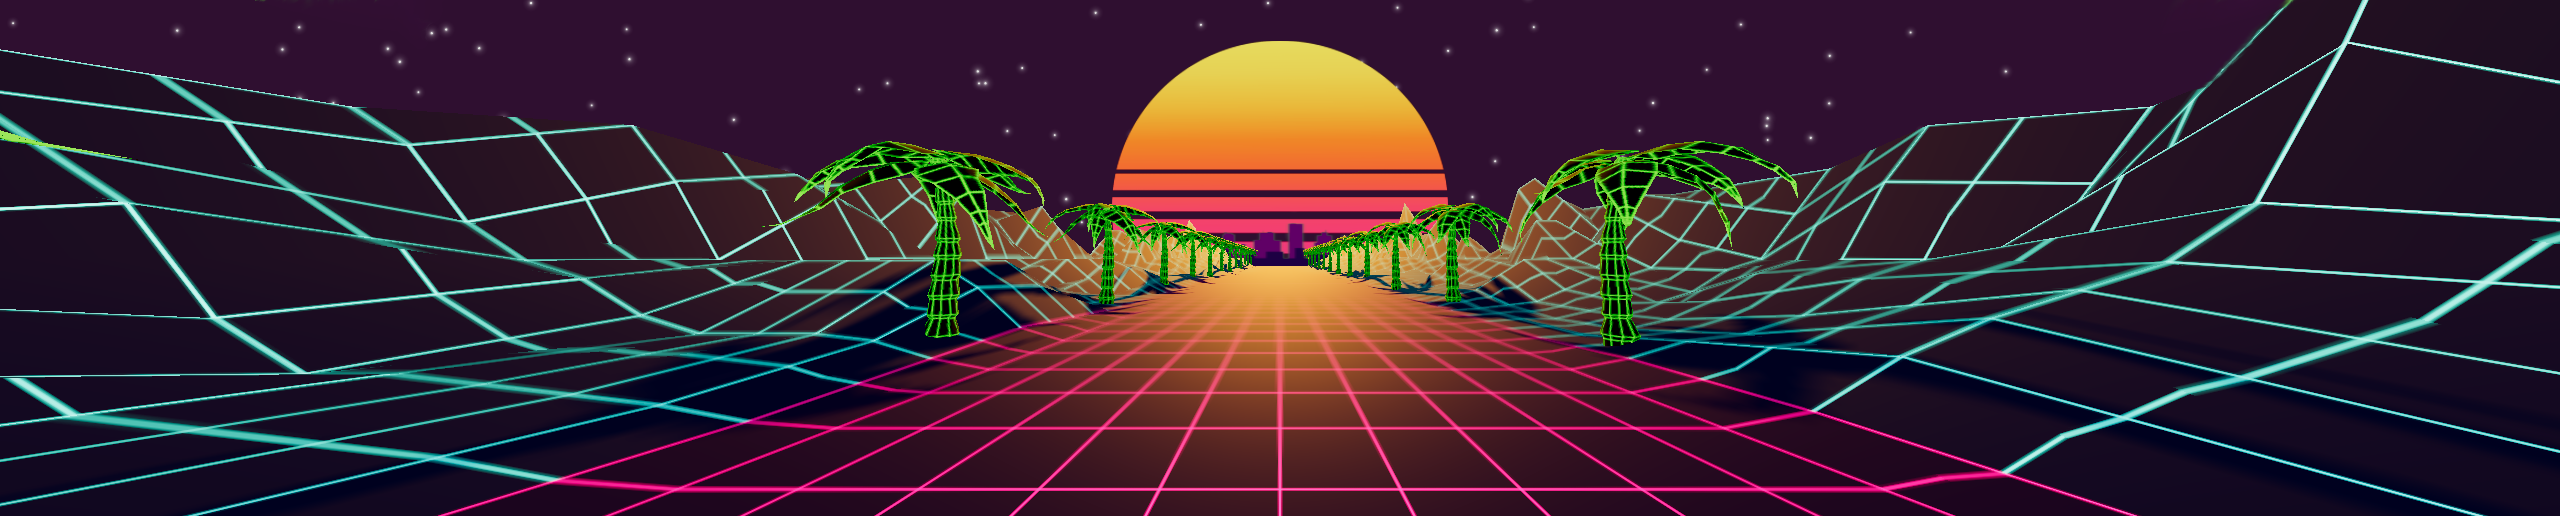
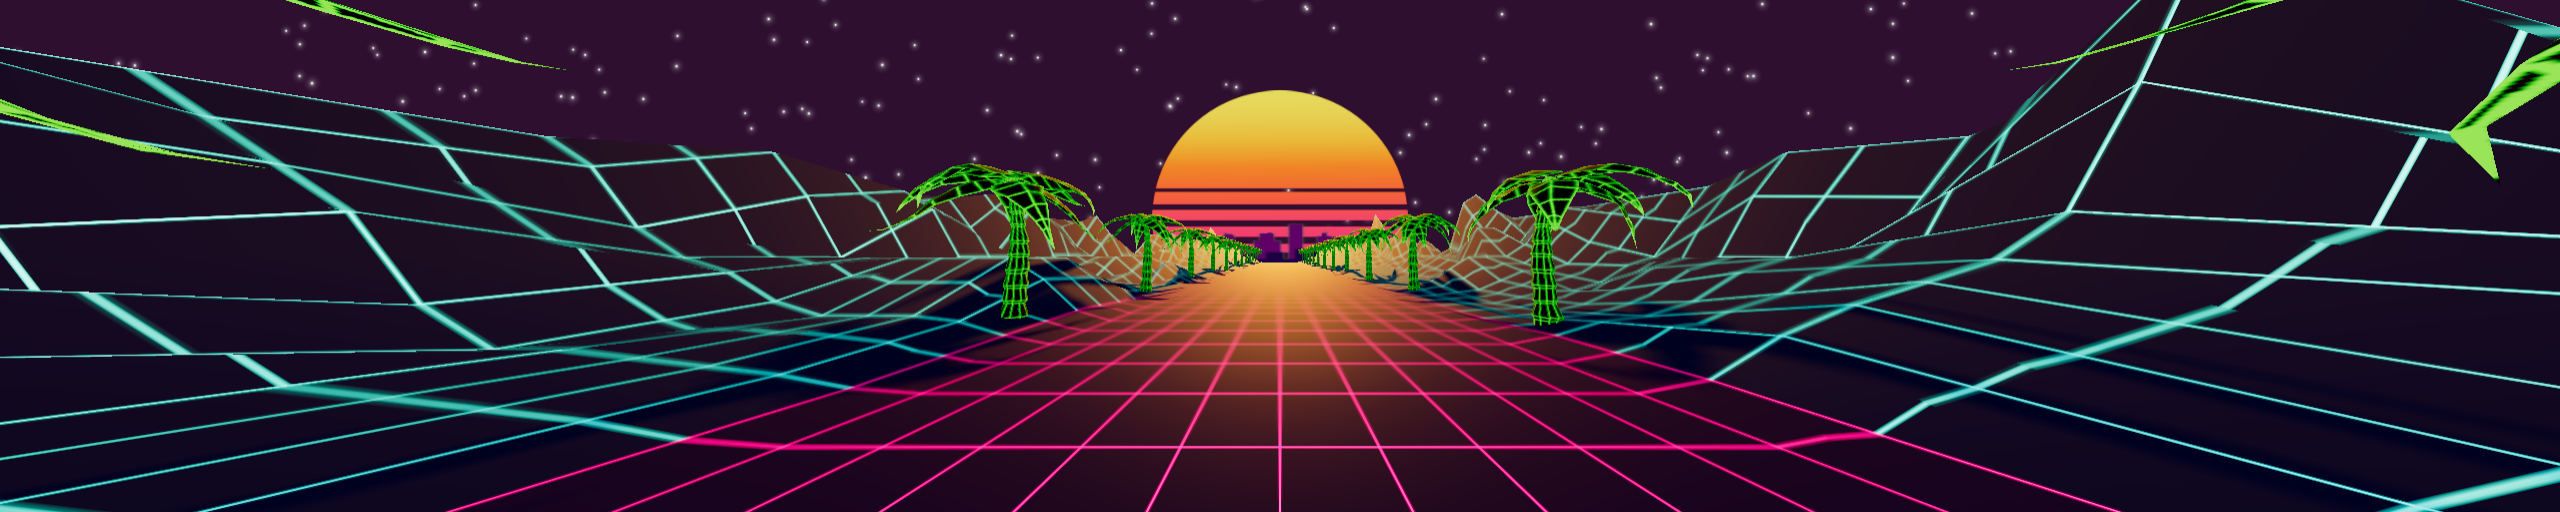
major layout update

diff --git a/components/neonRoad/play/box.module.css b/components/neonRoad/play/box.module.css
@@ -5,14 +5,14 @@
     align-items: center;
     width: 100%;
     position: absolute;
-    top: 5%;
+    top: var(--header-navbar-height);
     z-index: 1;
 }
 
 .playBox {
     display: flex;
     flex-direction: column;
-    padding: var(--main-spacing);
+    padding-top: calc(var(--main-spacing) * 2);
     width: 380px;
 }
 
@@ -83,10 +83,6 @@
 
 /* max-width: 70rem / 1120px (mobile breakpoint) */
 @media all and (max-width: 70rem) {
-
-    .playContainer {
-        top: 3%;
-    }
 
     .withMusic,
     .withoutMusic {

diff --git a/components/neonRoad/Canvas.tsx b/components/neonRoad/Canvas.tsx
@@ -23,7 +23,7 @@ const NeonRoadCanvas: React.FC<IProps> = (props) => {
 
         if (typeof window !== 'undefined') {
             // basic camera
-            cameraRef.current = new PerspectiveCamera(75, window.innerWidth / window.innerHeight, 0.01, 20)
+            cameraRef.current = new PerspectiveCamera(90, window.innerWidth / window.innerHeight, 0.01, 20)
 
             cameraRef.current.position.x = 0
             cameraRef.current.position.y = 0.06

diff --git a/components/header/navigation.module.css b/components/header/navigation.module.css
@@ -2,7 +2,7 @@
     /* https://developer.mozilla.org/en-US/docs/Web/CSS/backdrop-filter */
     backdrop-filter: saturate(200%) blur(5px);
     -webkit-backdrop-filter: saturate(200%) blur(5px);
-    background-color: rgba(255, 0, 170, 0.9);
+    background-color: rgba(255, 0, 170, 0.1);
     position: fixed;
     top: 0;
     bottom: 0;

diff --git a/app/layout.module.css b/app/layout.module.css
@@ -4,6 +4,4 @@
     max-width: 100%;
     position: relative;
     text-align: center;
-    /* to compensate for the fixed navbar */
-    margin-top: var(--header-navbar-height);
 }
